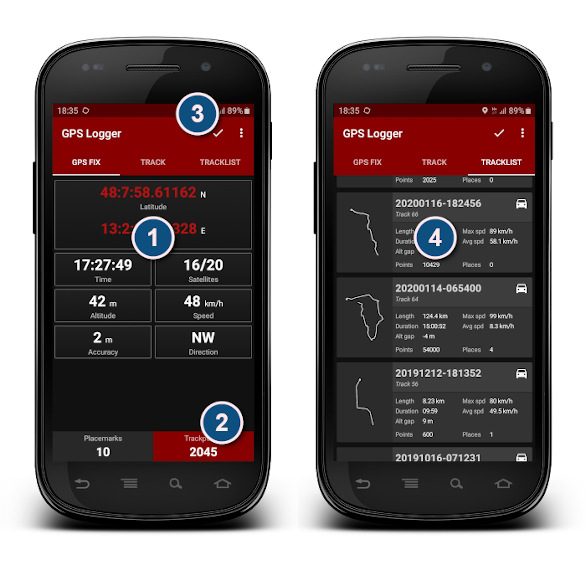
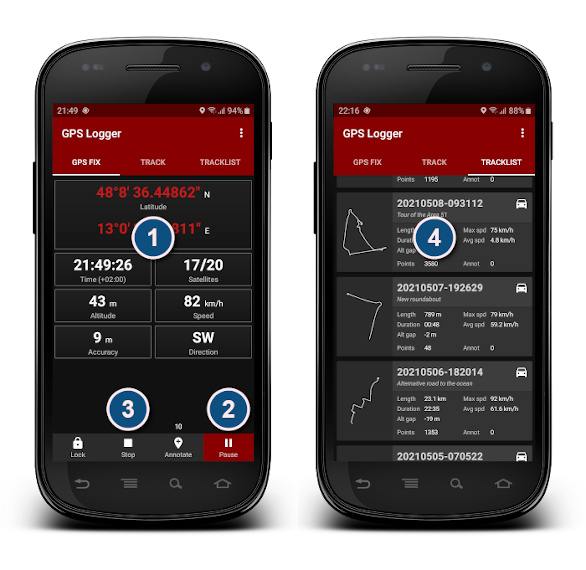
update 0900-12-04 basic airdata logger (pull request 643 on the production site)

diff --git a/_posts/en/0900-12-04-basicairdata-gpslogger_en.md b/_posts/en/0900-12-04-basicairdata-gpslogger_en.md
@@ -9,7 +9,7 @@ category: mobile-mapping
 BasicAirData GPS Logger
 =======================
 
-> Reviewed 2020-05-05
+> Reviewed 2021-06-12
 
 ![BasicAirData-GPSLogger-002][]
 
@@ -47,10 +47,10 @@ Basic Usage
 If the GPS location is not active on your phone, activate it. Then go in an open area and start GPS Logger.
 
 1. Wait until the app finds the fix. When available, the __GPS FIX__ tab will start to show the coordinates of the Fix. At this point (when possible) you should wait at least another minute before proceeding with the next phase in order to allow the signal to stabilize
-2. Click on the __Trackpoints__ button of the bottom panel to start recording track points. The button will become red. You can switch recording process on and off at any time by clicking on that button. The button shows the number of the trackpoints recorded.
+2. Click the __Record__ button of the bottom panel to start recording track points. The button will become red. switch recording process on and off at any time by clicking on that button. At the top of the button the app shows the number of the trackpoints recorded.
 You can go to the __TRACK__ tab to view in real time the statistics of your trip.
-3. When your trip is finished, double-tap on the little __V tick__ located near the upper right corner to finalize (finish) the active track.
-4. Go to the __TRACKLIST__ tab, where you will find the track you have just recorded. Tap on the track. A menu will appear. You can choose to share the track in many ways, view it using an installed external viewer, export it into /GPSLogger folder of your smartphone, or delete it from the tracklist. The formats used for export can be configured on the settings screen
+3. When your trip is finished, click the __Stop__ button to finalize (finish) the active track. A dialog will appear, click __OK__ to confirm.
+4. Go to the __TRACKLIST__ tab, where you will find the track you have just recorded. Tap on the track. A menu will appear. You can choose to share the track in many ways, view it using an installed external viewer, edit the track details, export it into /GPSLogger folder of your smartphone, or delete it from the tracklist. The formats used for export can be configured on the settings screen.
 
 Import of GPX tracks in OpenStreetMap Editor
 --------------------------------------------
